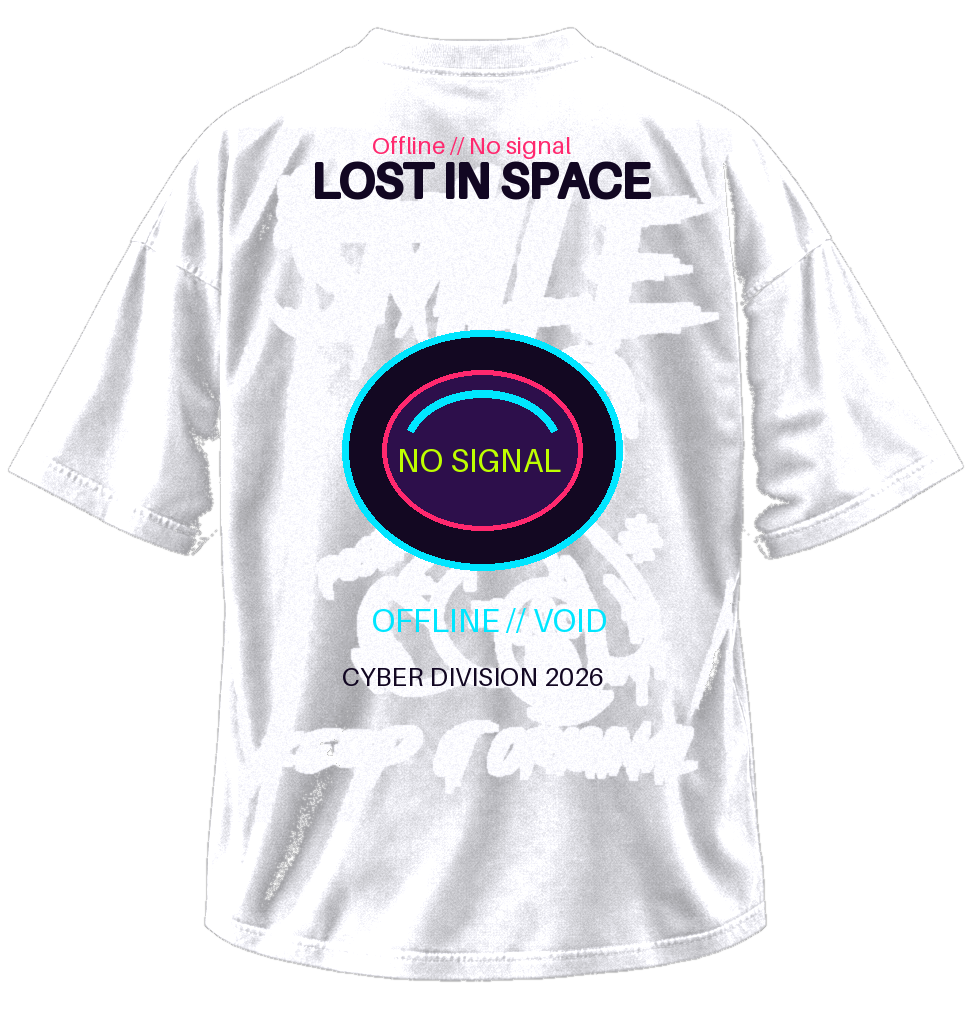
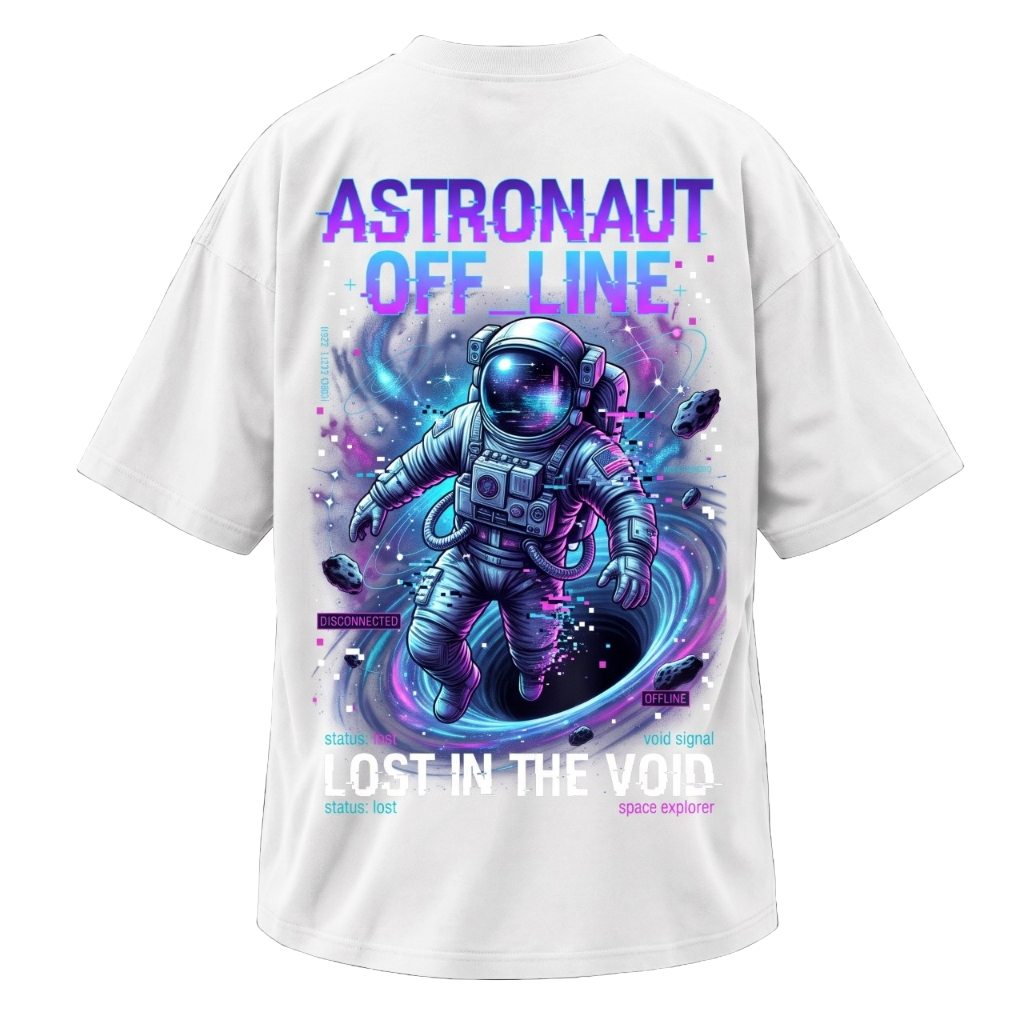
feat: add real product photos and colors for Astronaut Offline Void Heavyweight Tee

diff --git a/frontend/src/data/products.ts b/frontend/src/data/products.ts
@@ -262,11 +262,11 @@ export const INITIAL_PRODUCTS: Product[] = [
     image_url: '/products/astronaut-void.png',
     images_by_color: makeProductImages('astronaut-void'),
     print_style: 'cyber-heart',
-    print_title: 'OFFLINE // VOID',
-    print_subtitle: 'NO SIGNAL # 06',
+    print_title: 'ASTRONAUT OFF_LINE',
+    print_subtitle: 'LOST IN THE VOID // SPACE EXPLORER',
     name: 'Astronaut Offline Void Heavyweight Tee',
-    short_description: 'Космический киберпанк с неоновым шлемом астронавта и надписью LOST IN SPACE.',
-    description: 'Дерзкий космический стритвир со светящимися в темноте неоновыми акцентами.',
+    short_description: 'Космический кибер-оверсайз 240 г/м² с астронавтом в червоточине и принтом ASTRONAUT OFF_LINE LOST IN THE VOID.',
+    description: 'Премиальный плотный оверсайз из гребенного хлопка пенье. Детализированная графика астронавта, затягиваемого в неоновую червоточину космоса, с глитч-эффектом и статусными метками. Доступна в 3 реальных расцветках: Черный, Белый и Вываренный графит.',
     variants: [],
   },
   {
@@ -324,7 +324,7 @@ export const PRODUCT_AVAILABLE_COLORS: Record<string, string[]> = {
   'prod-003': ['black-sesame', 'cold-ice', 'velvet-indigo', 'acid-lime'], // 4 реальных цвета: черный, белый, темный индиго и графит-лайм!
   'prod-004': ['black-sesame', 'cold-ice', 'velvet-indigo', 'acid-lime'], // 4 реальных цвета: черный, белый, темный индиго и графит-лайм!
   'prod-005': ['black-sesame', 'acid-lime', 'mana-cyan'], // 3 реальных цвета винтажной выварки: графит, моховой лайм и электрик-циан!
-  'prod-006': ['black-sesame', 'mana-cyan'], // Черный и циан космос
+  'prod-006': ['black-sesame', 'cold-ice', 'acid-lime'], // 3 реальных цвета: черный, белый и темный графит!
   'prod-007': ['black-sesame', 'cold-ice'], // Базовый черный и белый
   'prod-008': ['black-sesame'], // Только глубокий черный
 };

diff --git a/frontend/src/App.tsx b/frontend/src/App.tsx
@@ -90,9 +90,9 @@ export const App: React.FC = () => {
   // Данные магазина с локальной персистентностью и актуальными фото и остатками по цветам
   const [products, setProducts] = useState<Product[]>(() => {
     try {
-      const saved = localStorage.getItem('test_products_v9');
+      const saved = localStorage.getItem('test_products_v10');
       if (saved) return JSON.parse(saved);
-      localStorage.setItem('test_products_v9', JSON.stringify(INITIAL_PRODUCTS));
+      localStorage.setItem('test_products_v10', JSON.stringify(INITIAL_PRODUCTS));
       return INITIAL_PRODUCTS;
     } catch {
       return INITIAL_PRODUCTS;
@@ -154,7 +154,7 @@ export const App: React.FC = () => {
   });
 
   useEffect(() => {
-    localStorage.setItem('test_products_v9', JSON.stringify(products));
+    localStorage.setItem('test_products_v10', JSON.stringify(products));
   }, [products]);
 
   useEffect(() => {
